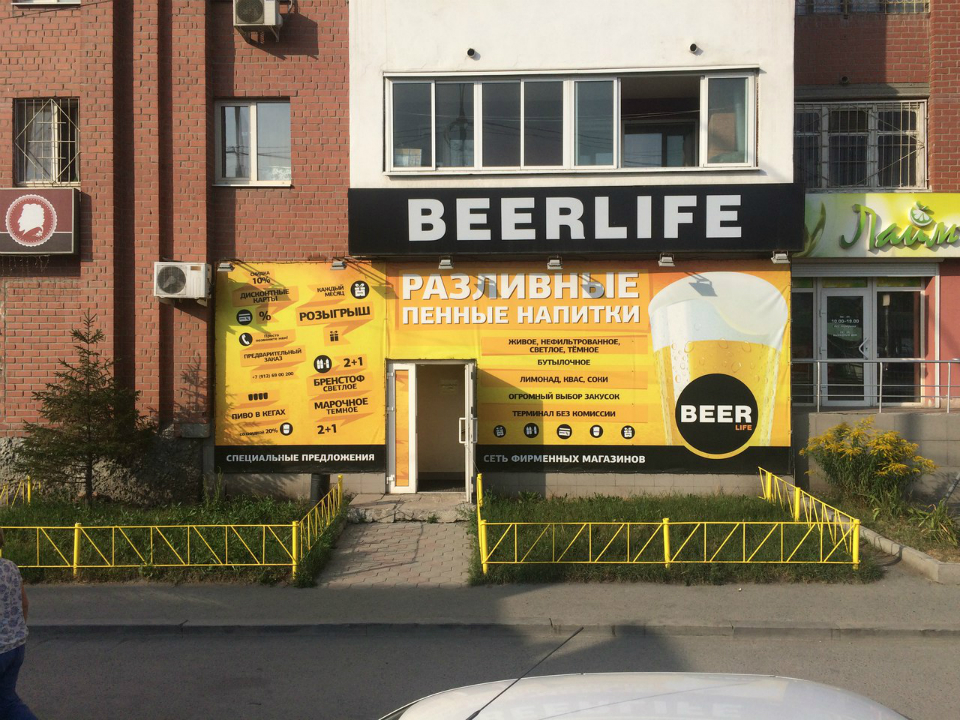
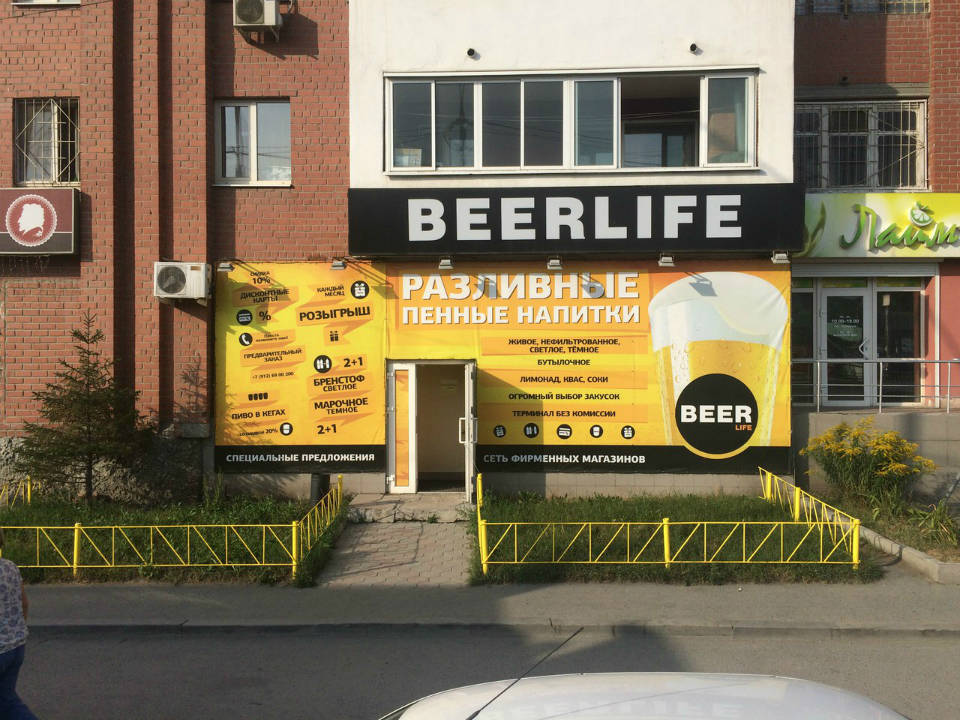
Уменьшил вес картинок

Changed region(s): [[0.5938, 0.4583, 0.625, 0.4889]]

diff --git a/styles/index.css b/styles/index.css
@@ -4,7 +4,7 @@ body, html {
 }
 body {
     margin: 0;
-    background-image: url("../images/background-1.png");
+    background-image: url("../images/background-1.jpg");
     background-size: cover;
     background-attachment: fixed;
 }
